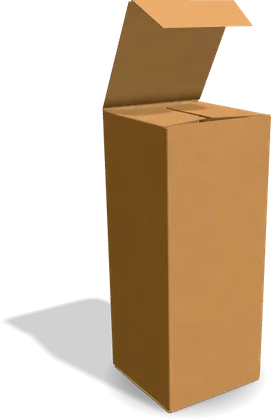
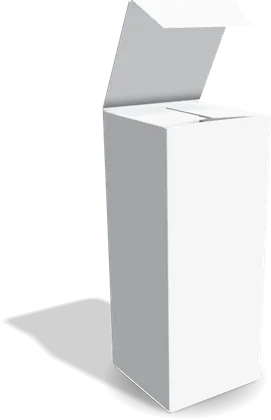
Start each box in the finish it is usually made in
Every new design used to start in Soft touch whatever the box. Each
template now names its default finish: folding cartons (both tuck end
boxes) in white board, corrugated boxes (split top, pizza, mailer) in
kraft, rigid and drawer boxes in soft touch, and so on. A new design
starts in its template's finish, coloured by that material, and
switching templates brings the new template's finish until the person
picks a finish or colour themselves. Saved designs keep their own.

The template thumbnails render in each template's default finish, so
the straight tuck card is white board like the box it opens.

Claude-Session: https://claude.ai/code/session_01AosEoHGp9fRkJBNR4UPrD4

diff --git a/src/components/studio/studio-shell.tsx b/src/components/studio/studio-shell.tsx
@@ -30,7 +30,7 @@ import type { CartonDimensions } from '@/lib/packaging/reverse-tuck';
 import { layoutVersionFor, migrateStudioLayout } from '@/lib/packaging/layout-migration';
 import { getTemplateAssemblyState, getTemplateExportGeometry, getTemplateGeometry, getTemplateRuntime, templateAssemblyValuesForProgress } from '@/lib/packaging/template-runtime';
 import { artworkCss, defaultArtworkPlacement, type ArtworkByPanel, type ArtworkMode, type ArtworkPlacement, type LocalMediaAsset } from '@/lib/packaging/artwork';
-import { PACKAGING_TEMPLATES, getDefaultPackagingTemplate, getPackagingTemplateCategories, type PackagingTemplateDefinition } from '@/lib/packaging/template-registry';
+import { PACKAGING_TEMPLATES, STUDIO_MATERIALS, getDefaultPackagingTemplate, getPackagingTemplateCategories, type PackagingTemplateDefinition } from '@/lib/packaging/template-registry';
 import { DEFAULT_DIELINE_PDF_OPTIONS, type DielinePdfOptions } from '@/lib/packaging/pdf-options';
 import { artboardSize, artboardTransform, createFullDielineTransform, layerPrintsOn, placeFullDielineArtwork, rasterizeFullDielineLayers, rasterizePanelArtwork, type FullDielineArtworkLayer, type FullDielineTransform } from '@/lib/packaging/full-dieline-artwork';
 
@@ -227,7 +227,6 @@ const studioAreas: { id: StudioArea; label: MessageKey; shortLabel?: MessageKey;
   { id: 'preview', label: "studio.preview_download", shortLabel: "studio.preview_short", helper: "studio.3d_review_output", icon: Boxes, defaultTool: 'opening', tools: ['opening','scene','export'] },
 ];
 
-const materials = ['White board','Kraft','Soft touch','Matte coated','Gloss coated','Foil'];
 const cameras = ['Perspective','Hero','Back angle','Overhead','Front','Back','Left','Right','Top'];
 
 type HistoryStatus = {canUndo:boolean;canRedo:boolean};
@@ -344,7 +343,12 @@ export function StudioShell({initialProject,initialWorkspaceProjectId,initialTem
   const [templatePreview,setTemplatePreview] = useState<PackagingTemplateDefinition|null>(null);
   const [panel, setPanel] = useState('Front');
   const [artworkScope, setArtworkScope] = useState<'outside' | 'inside'>('outside');
-  const [material, setMaterial] = useState(initial?.material ?? 'Soft touch');
+  // A new design starts in its template's finish (a mailer in kraft, a
+  // carton in white board); switching templates brings the new template's
+  // finish until the person picks a finish or colour themselves. A saved
+  // design keeps its own.
+  const [material, setMaterial] = useState<string>(initial?.material ?? initialTemplate.defaultMaterial);
+  const finishChosenRef = useRef(Boolean(initial));
   const [outsideColorMode, setOutsideColorMode] = useState<BaseColorMode>(initial?.outsideColorMode ?? 'material');
   const [insideColorMode, setInsideColorMode] = useState<BaseColorMode>(initial?.insideColorMode ?? 'material');
   const [outsideCustomColor, setOutsideCustomColor] = useState(initial?.outsideCustomColor ?? '#C7D4DE');
@@ -899,6 +903,9 @@ export function StudioShell({initialProject,initialWorkspaceProjectId,initialTem
     return () => document.removeEventListener('pointerdown', dismissOnOutsidePointer, true);
   }, [faceAction]);
 
+  /** Wraps a finish setter so the person's own choice outlasts template switches. */
+  const chooseFinish = <T,>(setter: (value: T) => void) => (value: T) => { finishChosenRef.current = true; setter(value); };
+
   const chooseTemplate = (template: PackagingTemplateDefinition) => {
     if (template.status !== 'ready') {
       setMessage(`${getPackagingTemplateCopy(template, t).name} is in the catalog, but its real geometry is not ready yet`);
@@ -917,6 +924,11 @@ export function StudioShell({initialProject,initialWorkspaceProjectId,initialTem
     setSplitTopHingeSide('side_a');
     setOpeningValue(0);
     if (template.defaultDimensions) setDimensions(runtime.sanitizeParameters(template.defaultDimensions));
+    if (!finishChosenRef.current) {
+      setMaterial(template.defaultMaterial);
+      setOutsideColorMode('material');
+      setInsideColorMode('material');
+    }
     setMessage(`${getPackagingTemplateCopy(template, t).name} selected`);
   };
 
@@ -2114,7 +2126,7 @@ export function StudioShell({initialProject,initialWorkspaceProjectId,initialTem
     setTool(null);
   }}
 ><X size={18} /></button></div>
-        {tool && <StudioViewBoundary view="inspector"><Inspector key={tool} tool={tool} family={family} setFamily={setFamily} selectedTemplateId={selectedTemplateId} templateSearch={templateSearch} setTemplateSearch={setTemplateSearch} templateCategory={templateCategory} setTemplateCategory={setTemplateCategory} onChooseTemplate={chooseTemplate} onPreviewTemplate={setTemplatePreview} panel={panel} setPanel={setPanel} artworkScope={artworkScope} setArtworkScope={setArtworkScope} material={material} setMaterial={setMaterial} outsideColorMode={outsideColorMode} setOutsideColorMode={setOutsideColorMode} insideColorMode={insideColorMode} setInsideColorMode={setInsideColorMode} outsideCustomColor={outsideCustomColor} setOutsideCustomColor={setOutsideCustomColor} insideCustomColor={insideCustomColor} setInsideCustomColor={setInsideCustomColor} opening={opening} setOpening={setOpening} formation={formation} setFormation={setFormation} assemblyProgress={assemblyProgress} setAssemblyProgress={setAssemblyProgress} assemblyStage={assemblyStage} hasOpeningStage={hasOpeningStage} openingMode={openingMode} setOpeningMode={setOpeningMode} splitTopHingeSide={splitTopHingeSide} setSplitTopHingeSide={setSplitTopHingeSide} dimensions={dimensions} setDimensions={setDimensions} measurementUnit={measurementUnit} setMeasurementUnit={setMeasurementUnit} artworkByPanel={artworkByPanel} setArtworkByPanel={setArtworkByPanel} mediaAssets={mediaAssets} onOpenMediaLibrary={openMediaLibrary} onRemoveArtwork={removeArtwork} onExport={exportPng} onExportVideo={()=>void exportVideo()} videoProgress={videoProgress} onShare={shareDesign} shareBusy={shareBusy} canShare={Boolean(projectId)} pdfOptions={pdfExportOptions} setPdfOptions={setPdfExportOptions} pdfBusy={pdfBusy} onExportPdf={()=>{setPdfExportRequest(value=>value+1);setMessage(`Preparing ${artworkScope} 1:1 PDF…`);}} onAnimateFold={animateFold} setMessage={setMessage} renderStyle={renderStyle} onRenderStyleChange={changeRenderStyle} floorShadow={floorShadow} setFloorShadow={setFloorShadow} /></StudioViewBoundary>}
+        {tool && <StudioViewBoundary view="inspector"><Inspector key={tool} tool={tool} family={family} setFamily={setFamily} selectedTemplateId={selectedTemplateId} templateSearch={templateSearch} setTemplateSearch={setTemplateSearch} templateCategory={templateCategory} setTemplateCategory={setTemplateCategory} onChooseTemplate={chooseTemplate} onPreviewTemplate={setTemplatePreview} panel={panel} setPanel={setPanel} artworkScope={artworkScope} setArtworkScope={setArtworkScope} material={material} setMaterial={chooseFinish(setMaterial)} outsideColorMode={outsideColorMode} setOutsideColorMode={chooseFinish(setOutsideColorMode)} insideColorMode={insideColorMode} setInsideColorMode={chooseFinish(setInsideColorMode)} outsideCustomColor={outsideCustomColor} setOutsideCustomColor={chooseFinish(setOutsideCustomColor)} insideCustomColor={insideCustomColor} setInsideCustomColor={chooseFinish(setInsideCustomColor)} opening={opening} setOpening={setOpening} formation={formation} setFormation={setFormation} assemblyProgress={assemblyProgress} setAssemblyProgress={setAssemblyProgress} assemblyStage={assemblyStage} hasOpeningStage={hasOpeningStage} openingMode={openingMode} setOpeningMode={setOpeningMode} splitTopHingeSide={splitTopHingeSide} setSplitTopHingeSide={setSplitTopHingeSide} dimensions={dimensions} setDimensions={setDimensions} measurementUnit={measurementUnit} setMeasurementUnit={setMeasurementUnit} artworkByPanel={artworkByPanel} setArtworkByPanel={setArtworkByPanel} mediaAssets={mediaAssets} onOpenMediaLibrary={openMediaLibrary} onRemoveArtwork={removeArtwork} onExport={exportPng} onExportVideo={()=>void exportVideo()} videoProgress={videoProgress} onShare={shareDesign} shareBusy={shareBusy} canShare={Boolean(projectId)} pdfOptions={pdfExportOptions} setPdfOptions={setPdfExportOptions} pdfBusy={pdfBusy} onExportPdf={()=>{setPdfExportRequest(value=>value+1);setMessage(`Preparing ${artworkScope} 1:1 PDF…`);}} onAnimateFold={animateFold} setMessage={setMessage} renderStyle={renderStyle} onRenderStyleChange={changeRenderStyle} floorShadow={floorShadow} setFloorShadow={setFloorShadow} /></StudioViewBoundary>}
       </aside>
     </div>
 
@@ -2548,7 +2560,7 @@ function Inspector(props: {
 
   if (tool === 'material') return <div className="pro-inspector-content">
     <PanelIntro title={t("studio.material_finish_2")} text={t("studio.choose_the_board_or_surface_treatment_then_fine_tune_the_physical_material_")} />
-    <div className="pro-material-grid">{materials.map(item=><button key={item} className={props.material===item?'is-selected':''} onClick={()=>props.setMaterial(item)}><span className={`material-${item.toLowerCase().replaceAll(' ','-')}`}/><b>{item}</b></button>)}</div>
+    <div className="pro-material-grid">{STUDIO_MATERIALS.map(item=><button key={item} className={props.material===item?'is-selected':''} onClick={()=>props.setMaterial(item)}><span className={`material-${item.toLowerCase().replaceAll(' ','-')}`}/><b>{item}</b></button>)}</div>
 
     <div className="pro-card-section pro-base-color-card">
       <SectionTitle title={t("studio.base_color")} meta="Inside / outside" />

diff --git a/src/lib/packaging/template-registry.ts b/src/lib/packaging/template-registry.ts
@@ -37,6 +37,10 @@ export type ArtworkRegionDefinition = {
   panelId: string;
 };
 
+/** The board and print finishes the Studio offers. */
+export const STUDIO_MATERIALS = ['White board', 'Kraft', 'Soft touch', 'Matte coated', 'Gloss coated', 'Foil'] as const;
+export type StudioMaterial = (typeof STUDIO_MATERIALS)[number];
+
 export type PackagingTemplateDefinition = {
   id: string;
   version: number;
@@ -56,6 +60,11 @@ export type PackagingTemplateDefinition = {
   foldStages?: FoldStage[];
 
   defaultDimensions?: CartonDimensions;
+  /**
+   * The finish a new design of this box starts with, coloured by that
+   * material, until the person picks another finish or colour.
+   */
+  defaultMaterial: StudioMaterial;
   fixedOpeningMode?: string;
   isDefault?: boolean;
   /** Render of the finished box for template cards (scripts/render-template-thumbnails.mjs). */
@@ -106,6 +115,7 @@ export const PACKAGING_TEMPLATES: PackagingTemplateDefinition[] = [
     artworkRegions: [...exteriorRegions, ...interiorRegions],
     defaultDimensions: { width: 65, height: 160, depth: 65, thickness: 0.5 },
     status: 'ready',
+    defaultMaterial: 'White board',
   },
   {
     id: 'split-top-box',
@@ -146,6 +156,7 @@ export const PACKAGING_TEMPLATES: PackagingTemplateDefinition[] = [
     defaultDimensions: { width: 400, height: 300, depth: 300, thickness: 3 },
     fixedOpeningMode: 'top_split_meet_center',
     status: 'ready',
+    defaultMaterial: 'Kraft',
   },
   {
     id: 'reverse-tuck-carton',
@@ -170,6 +181,7 @@ export const PACKAGING_TEMPLATES: PackagingTemplateDefinition[] = [
     artworkRegions: [...exteriorRegions, ...interiorRegions],
     defaultDimensions: { width: 120, height: 180, depth: 55, thickness: 0.5 },
     status: 'ready',
+    defaultMaterial: 'White board',
   },
 
   // Catalog seeds. These intentionally remain planned until their real
@@ -189,6 +201,7 @@ export const PACKAGING_TEMPLATES: PackagingTemplateDefinition[] = [
     parameters: [],
     artworkRegions: [],
     status: 'planned',
+    defaultMaterial: 'Kraft',
   },
   {
     id: 'pizza-box',
@@ -214,6 +227,7 @@ export const PACKAGING_TEMPLATES: PackagingTemplateDefinition[] = [
     defaultDimensions: { width: 305, height: 45, depth: 305, thickness: 1.5 },
     fixedOpeningMode: 'lid_from_back',
     status: 'ready',
+    defaultMaterial: 'Kraft',
   },
   {
     id: 'sleeve-box',
@@ -230,6 +244,7 @@ export const PACKAGING_TEMPLATES: PackagingTemplateDefinition[] = [
     parameters: [],
     artworkRegions: [],
     status: 'planned',
+    defaultMaterial: 'Matte coated',
   },
   {
     id: 'rigid-lid-base',
@@ -246,6 +261,7 @@ export const PACKAGING_TEMPLATES: PackagingTemplateDefinition[] = [
     parameters: [],
     artworkRegions: [],
     status: 'planned',
+    defaultMaterial: 'Soft touch',
   },
   {
     id: 'drawer-box',
@@ -262,6 +278,7 @@ export const PACKAGING_TEMPLATES: PackagingTemplateDefinition[] = [
     parameters: [],
     artworkRegions: [],
     status: 'planned',
+    defaultMaterial: 'Soft touch',
   },
   {
     id: 'stand-up-pouch',
@@ -278,6 +295,7 @@ export const PACKAGING_TEMPLATES: PackagingTemplateDefinition[] = [
     parameters: [],
     artworkRegions: [],
     status: 'planned',
+    defaultMaterial: 'Matte coated',
   },
   {
     id: 'glass-bottle',
@@ -294,6 +312,7 @@ export const PACKAGING_TEMPLATES: PackagingTemplateDefinition[] = [
     parameters: [],
     artworkRegions: [],
     status: 'planned',
+    defaultMaterial: 'Gloss coated',
   },
   {
     id: 'round-jar',
@@ -310,6 +329,7 @@ export const PACKAGING_TEMPLATES: PackagingTemplateDefinition[] = [
     parameters: [],
     artworkRegions: [],
     status: 'planned',
+    defaultMaterial: 'Gloss coated',
   },
   {
     id: 'paper-cup',
@@ -326,6 +346,7 @@ export const PACKAGING_TEMPLATES: PackagingTemplateDefinition[] = [
     parameters: [],
     artworkRegions: [],
     status: 'planned',
+    defaultMaterial: 'White board',
   },
   {
     id: 'beverage-can',
@@ -342,6 +363,7 @@ export const PACKAGING_TEMPLATES: PackagingTemplateDefinition[] = [
     parameters: [],
     artworkRegions: [],
     status: 'planned',
+    defaultMaterial: 'Foil',
   },
 ];
 
